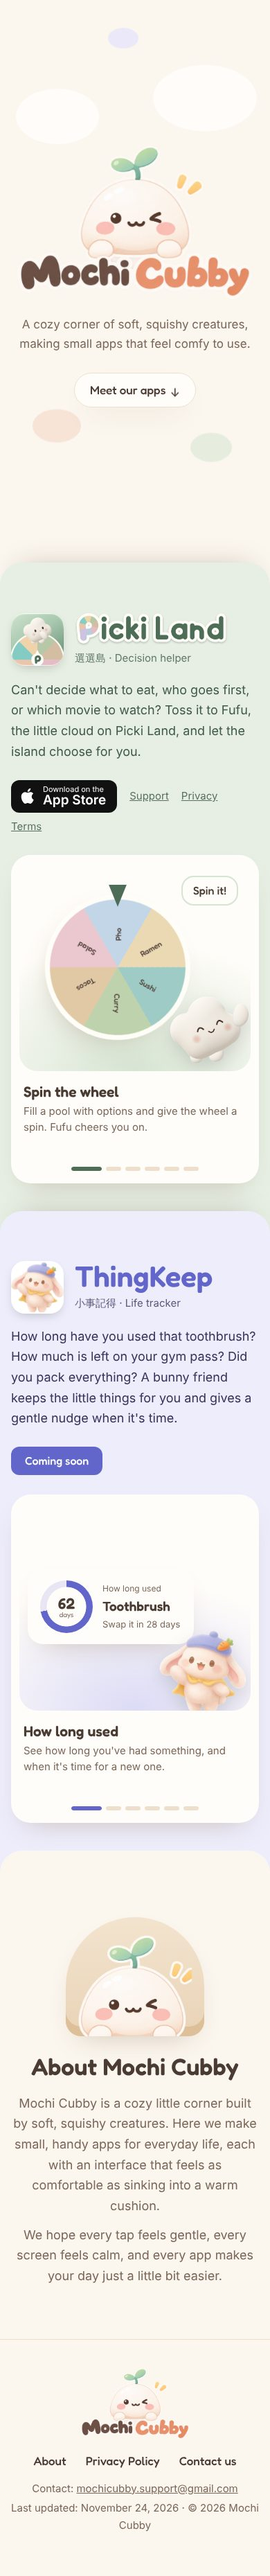
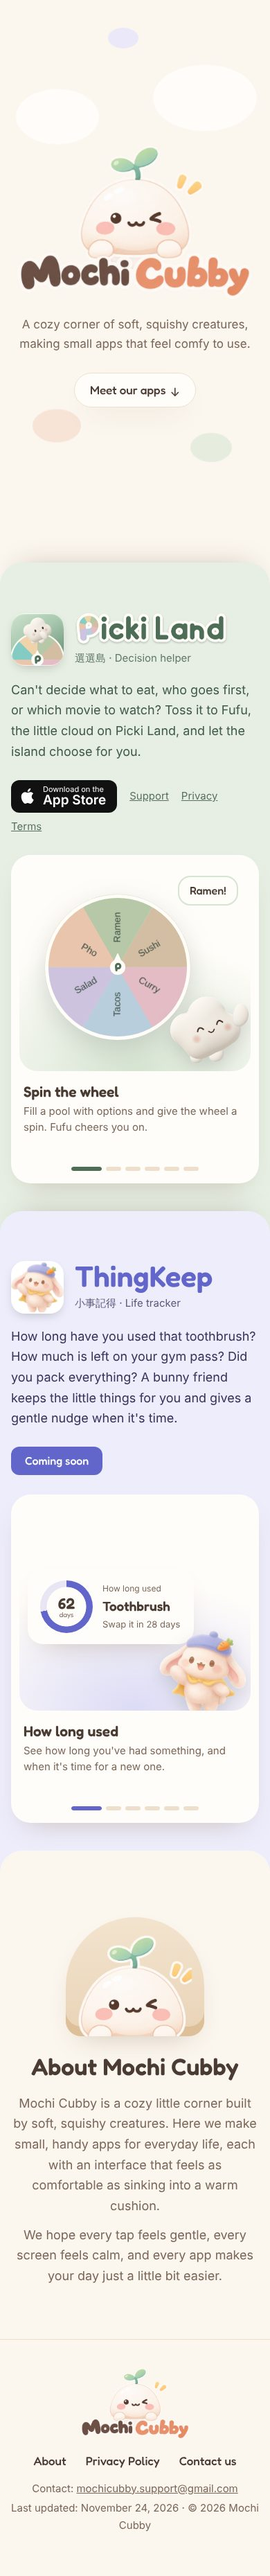
feat: draw Picki Land carousel art from the app's own design
Wheel, dartboard, dart, lucky box, coin and dice now follow the app's
DesignTokens colors and shapes (sector pastels, white rim and P hub,
wooden dart with lavender feathers, wooden box with tilted P, gold coin,
cream dice with sage pips).

Claude-Session: https://claude.ai/code/session_01Ag2grs5sMoaJTyMNK4ajan

Changed region(s): [[0.1846, 0.3432, 0.7077, 0.4056]]

diff --git a/assets/home.css b/assets/home.css
@@ -103,38 +103,40 @@ figcaption strong{display:block;font-family:var(--round);font-weight:600;font-si
 .bunny-r{width:170px;right:4px;bottom:-6px}
 .bunny-l{width:160px;left:4px;bottom:-4px}
 
-/* Picki: wheel */
-.wheel-wrap{position:absolute;left:50%;top:50%;width:250px;height:250px;margin:-125px 0 0 -150px}
-.wheel{width:100%;height:100%;border-radius:50%;border:7px solid #FFFDF7;box-shadow:var(--shadow);position:relative;
-  background:conic-gradient(#EBD9B4 0 60deg,#9FCBC6 0 120deg,#BFD2AE 0 180deg,#E2C9A6 0 240deg,#EBC7CF 0 300deg,#C3D6E8 0)}
-.slide.is-active .wheel{animation:spin 3.6s cubic-bezier(.15,.7,.1,1) .2s both}
-.wheel span{position:absolute;left:50%;top:50%;font-family:var(--round);font-weight:500;font-size:13px;color:#4A3B33;transform-origin:0 0;white-space:nowrap}
-.wheel span:nth-child(1){transform:rotate(-60deg) translate(38px,-8px)}
-.wheel span:nth-child(2){transform:rotate(0deg) translate(38px,-8px)}
-.wheel span:nth-child(3){transform:rotate(60deg) translate(38px,-8px)}
-.wheel span:nth-child(4){transform:rotate(120deg) translate(38px,-8px)}
-.wheel span:nth-child(5){transform:rotate(180deg) translate(38px,-8px)}
-.wheel span:nth-child(6){transform:rotate(240deg) translate(38px,-8px)}
-.wheel-pin{position:absolute;left:50%;top:-14px;width:26px;height:32px;margin-left:-13px;background:var(--picki-accent);clip-path:polygon(50% 100%,0 0,100% 0)}
-@keyframes spin{from{transform:rotate(0)}to{transform:rotate(1110deg)}}
-
-/* Picki: darts */
-.board{position:absolute;left:50%;top:50%;width:230px;height:230px;margin:-115px 0 0 -80px;border-radius:50%;background:#EBC7CF;box-shadow:var(--shadow)}
-.board i{position:absolute;border-radius:50%;inset:var(--s)}
-.board i:nth-child(1){--s:22px;background:#FFFDF7}.board i:nth-child(2){--s:44px;background:#9FCBC6}.board i:nth-child(3){--s:68px;background:#FFFDF7}.board i:nth-child(4){--s:92px;background:#E5B54A}
-.dart{position:absolute;width:70px;height:6px;border-radius:3px;background:var(--picki-accent);transform-origin:0 50%;opacity:0}
-.dart::after{content:"";position:absolute;right:-6px;top:-6px;border:9px solid transparent;border-left:0;border-right:14px solid #E2C9A6}
-.d1{left:116px;top:112px;rotate:-35deg}.d2{left:150px;top:60px;rotate:-20deg}
-.slide.is-active .d1{animation:dart .5s cubic-bezier(.2,.8,.3,1.2) .3s forwards}
-.slide.is-active .d2{animation:dart .5s cubic-bezier(.2,.8,.3,1.2) .8s forwards}
-@keyframes dart{from{opacity:0;transform:translate(120px,-60px)}to{opacity:1;transform:none}}
-
-/* Picki: lucky box */
-.box-img{position:absolute;left:50%;bottom:24px;width:180px;margin-left:-90px;border-radius:40px;box-shadow:var(--shadow)}
-.slide.is-active .box-img{animation:shake .5s ease-in-out .2s 3}
-@keyframes shake{0%,100%{transform:rotate(0)}25%{transform:rotate(-6deg)}75%{transform:rotate(6deg)}}
-.ticket{position:absolute;font-family:var(--round);font-weight:600;font-size:15px;background:#FFF6E5;color:#6B4E2E;padding:8px 14px;border-radius:10px;border:2px dashed #E2C9A6}
-.t1{left:14%;top:30%;rotate:-8deg}.t2{right:12%;top:24%;rotate:7deg}.t3{right:20%;top:52%;rotate:-4deg}
+/* Picki: artwork follows the app's own drawing (DesignTokens) */
+.pl-wheel{position:absolute;left:50%;top:50%;width:250px;height:250px;margin:-125px 0 0 -160px;filter:drop-shadow(0 12px 18px rgba(56,73,63,.18))}
+.pl-wheel img{position:absolute;inset:0;width:100%;height:100%}
+.slide.is-active .pl-wheel-face{animation:spin 3.4s cubic-bezier(.12,.7,.08,1) .2s both}
+@keyframes spin{from{transform:rotate(0)}to{transform:rotate(-1110deg)}}
+.pl-result{right:18px;top:18px;opacity:0;transform:scale(.6)}
+.slide.is-active .pl-result{animation:popIn .5s cubic-bezier(.3,1.5,.5,1) 3.4s forwards}
+.pl-board{position:absolute;left:50%;top:50%;width:240px;height:240px;margin:-120px 0 0 -70px}
+.pl-board-face{width:100%;height:100%;filter:drop-shadow(0 12px 18px rgba(56,73,63,.18))}
+.slide.is-active .pl-board-face{animation:turn 14s linear infinite}
+@keyframes turn{to{transform:rotate(360deg)}}
+.pl-dart{position:absolute;width:72px;transform-origin:1.6% 50%;opacity:0}
+.pl-dart.d1{left:118px;top:86px;rotate:76deg}
+.pl-dart.d2{left:150px;top:132px;rotate:104deg}
+.slide.is-active .pl-dart.d1{animation:dartIn .45s cubic-bezier(.2,.8,.3,1.15) .5s forwards}
+.slide.is-active .pl-dart.d2{animation:dartIn .45s cubic-bezier(.2,.8,.3,1.15) 1.3s forwards}
+@keyframes dartIn{from{opacity:0;translate:0 0;transform:translateX(170px) scale(1.4)}to{opacity:1;transform:none}}
+.pl-box{position:absolute;left:50%;bottom:22px;width:230px;margin-left:-160px}
+.pl-box-art{position:relative;display:block;width:100%}
+.slide.is-active .pl-box-art{animation:shake .4s ease-in-out .2s 3}
+@keyframes shake{0%,100%{transform:rotate(0)}25%{transform:rotate(-1.6deg)}75%{transform:rotate(1.6deg)}}
+.pl-ticket{position:absolute;left:62px;top:-6px;width:116px;height:72px;display:grid;place-items:center;background:#FDE8D0;border:1px solid rgba(56,73,63,.35);border-radius:8px;font-family:var(--round);font-weight:500;font-size:18px;color:#38493F;opacity:0}
+.slide.is-active .pl-ticket{animation:ticket .9s cubic-bezier(.3,1.3,.5,1) 1.5s forwards}
+@keyframes ticket{from{opacity:0;transform:translateY(40px) scale(.3)}to{opacity:1;transform:translateY(-86px) rotate(-4deg)}}
+.pl-quick{position:absolute;inset:0}
+.pl-coin{position:absolute;left:50%;top:50%;width:150px;margin:-90px 0 0 -170px}
+.slide.is-active .pl-coin{animation:coinToss 1.3s cubic-bezier(.3,.6,.4,1) .2s both}
+@keyframes coinToss{0%{transform:translateY(0) rotateX(0)}45%{transform:translateY(-70px) rotateX(900deg)}100%{transform:translateY(0) rotateX(1800deg)}}
+.pl-die{position:absolute;width:84px}
+.pl-die.a{left:50%;top:50%;margin:-70px 0 0 20px;rotate:-8deg}
+.pl-die.b{left:50%;top:50%;margin:0 0 0 70px;rotate:12deg}
+.slide.is-active .pl-die{animation:roll .9s cubic-bezier(.2,.8,.3,1.1) .5s both}
+.slide.is-active .pl-die.b{animation-delay:.7s}
+@keyframes roll{from{opacity:0;transform:translate(160px,-40px) rotate(260deg)}to{opacity:1;transform:none}}
 
 /* Picki: weights */
 .weights{position:absolute;left:20px;right:150px;top:50%;transform:translateY(-50%);display:grid;gap:14px}
@@ -143,16 +145,6 @@ figcaption strong{display:block;font-family:var(--round);font-weight:600;font-si
 .weights em{font-style:normal;font-size:14px;color:var(--picki-accent)}
 .slide.is-active .weights b{animation:grow 1s ease .3s both}
 @keyframes grow{from{background-size:0 100%,auto}}
-
-/* Picki: quick */
-.quick{position:absolute;inset:0;display:flex;align-items:center;justify-content:center;gap:18px}
-.q{width:110px;height:130px;border-radius:24px;background:var(--paper);box-shadow:var(--shadow);display:flex;flex-direction:column;align-items:center;justify-content:center;font-size:44px;font-family:var(--round);font-weight:600;color:var(--picki-ink)}
-.q small{font-size:14px;font-weight:500;color:var(--muted);margin-top:4px}
-.slide.is-active .coin{animation:flip 1s ease .2s}
-.slide.is-active .dice{animation:roll .9s ease .5s}
-.slide.is-active .num{animation:popIn .6s cubic-bezier(.3,1.4,.5,1) .8s both;opacity:0;transform:scale(.8)}
-@keyframes flip{50%{transform:rotateY(180deg) translateY(-14px)}}
-@keyframes roll{50%{transform:rotate(200deg) scale(.9)}}
 
 /* Picki: finger pick */
 .fingers{position:absolute;inset:0}
@@ -228,13 +220,13 @@ figcaption strong{display:block;font-family:var(--round);font-weight:600;font-si
   .carousel{padding:12px 12px 10px;border-radius:28px}
   .slides{height:420px}
   .stage{height:300px}
-  .wheel-wrap{width:210px;height:210px;margin:-105px 0 0 -130px}
-  .wheel span{font-size:11px}
+  .pl-wheel{width:210px;height:210px;margin:-105px 0 0 -130px}
+  .pl-board{width:200px;height:200px;margin:-100px 0 0 -60px}
+  .pl-box{width:200px;margin-left:-130px}
+  .pl-coin{width:124px;margin:-80px 0 0 -140px}
+  .pl-die{width:70px}
   .fufu-r{width:130px}.fufu-r.small{width:110px}.fufu-l{width:110px}
   .bunny-r,.bunny-l{width:130px}
-  .board{width:190px;height:190px;margin:-95px 0 0 -60px}
-  .q{width:92px;height:112px;font-size:36px}
-  .quick{gap:10px}
   .weights{right:110px;left:12px}
   .weights div{grid-template-columns:52px 1fr 24px;font-size:14px;padding:8px 10px}
   .tk-card.center{left:12px;width:240px}
@@ -242,6 +234,6 @@ figcaption strong{display:block;font-family:var(--round);font-weight:600;font-si
 }
 @media (prefers-reduced-motion:reduce){
   *,*::before,*::after{animation:none!important;transition:none!important}
-  .slide .pop,.dart,.slide.is-active .num,.slide.is-active .check i.on,.slide.is-active .week i{opacity:1;transform:none}
+  .slide .pop,.pl-dart,.pl-ticket,.pl-result,.slide.is-active .num,.slide.is-active .check i.on,.slide.is-active .week i{opacity:1;transform:none}
   html{scroll-behavior:auto}
 }

diff --git a/index.html b/index.html
@@ -55,27 +55,26 @@
       <div class="slides">
         <figure class="slide is-active">
           <div class="stage" aria-hidden="true">
-            <div class="wheel-wrap"><div class="wheel"><span>Ramen</span><span>Sushi</span><span>Curry</span><span>Tacos</span><span>Salad</span><span>Pho</span></div><div class="wheel-pin"></div></div>
+            <div class="pl-wheel"><img class="pl-wheel-face" src="/assets/apps/picki-land/art/wheel-face.svg" alt=""><img class="pl-wheel-hub" src="/assets/apps/picki-land/art/wheel-hub.svg" alt=""></div>
             <img class="pop fufu-r" src="/assets/apps/picki-land/fufu-wave.png" alt="" width="420" height="420">
-            <div class="bubble pop b-tr">Spin it!</div>
+            <div class="chip pl-result">Ramen!</div>
           </div>
           <figcaption><strong>Spin the wheel</strong>Fill a pool with options and give the wheel a spin. Fufu cheers you on.</figcaption>
         </figure>
         <figure class="slide">
           <div class="stage" aria-hidden="true">
-            <div class="board"><i></i><i></i><i></i><i></i><span class="dart d1"></span><span class="dart d2"></span></div>
+            <div class="pl-board"><img class="pl-board-face" src="/assets/apps/picki-land/art/dartboard.svg" alt="">
+              <img class="pl-dart d1" src="/assets/apps/picki-land/art/dart.svg" alt=""><img class="pl-dart d2" src="/assets/apps/picki-land/art/dart.svg" alt=""></div>
             <img class="pop fufu-l" src="/assets/apps/picki-land/fufu-happy.png" alt="" width="300" height="300">
-            <div class="chip pop c-br">🎯 Bullseye: Movie night</div>
           </div>
-          <figcaption><strong>Throw a dart</strong>Aim, throw, and see which option you hit.</figcaption>
+          <figcaption><strong>Throw a dart</strong>Flick a dart at the turning board and see which option it hits.</figcaption>
         </figure>
         <figure class="slide">
           <div class="stage" aria-hidden="true">
-            <img class="box-img" src="/assets/apps/picki-land/luckybox.png" alt="" width="216" height="216">
-            <div class="ticket pop t1">Ramen</div><div class="ticket pop t2">Hot pot</div><div class="ticket pop t3">Pizza</div>
-            <div class="bubble pop b-tl">Shake, shake!</div>
+            <div class="pl-box"><div class="pl-ticket">Hot pot</div><img class="pl-box-art" src="/assets/apps/picki-land/art/box.svg" alt=""></div>
+            <img class="pop fufu-r small" src="/assets/apps/picki-land/fufu-happy.png" alt="" width="300" height="300">
           </div>
-          <figcaption><strong>Shake the lucky box</strong>Draw a ticket from the box. Turn on no-repeat to draw each one once.</figcaption>
+          <figcaption><strong>Draw from the lucky box</strong>Reach in and pull out a ticket. Turn on no-repeat to draw each one once.</figcaption>
         </figure>
         <figure class="slide">
           <div class="stage" aria-hidden="true">
@@ -90,9 +89,9 @@
         </figure>
         <figure class="slide">
           <div class="stage" aria-hidden="true">
-            <div class="quick"><span class="q coin">🪙<small>Heads</small></span><span class="q dice">🎲<small>5</small></span><span class="q num">42<small>1 – 100</small></span></div>
+            <div class="pl-quick"><img class="pl-coin" src="/assets/apps/picki-land/art/coin.svg" alt=""><img class="pl-die a" src="/assets/apps/picki-land/art/die-5.svg" alt=""><img class="pl-die b" src="/assets/apps/picki-land/art/die-3.svg" alt=""></div>
           </div>
-          <figcaption><strong>Quick decide</strong>Flip a coin, roll dice or pick a number in one tap.</figcaption>
+          <figcaption><strong>Coin and dice</strong>Toss a coin or roll up to six dice, or pick a random number.</figcaption>
         </figure>
         <figure class="slide">
           <div class="stage" aria-hidden="true">
